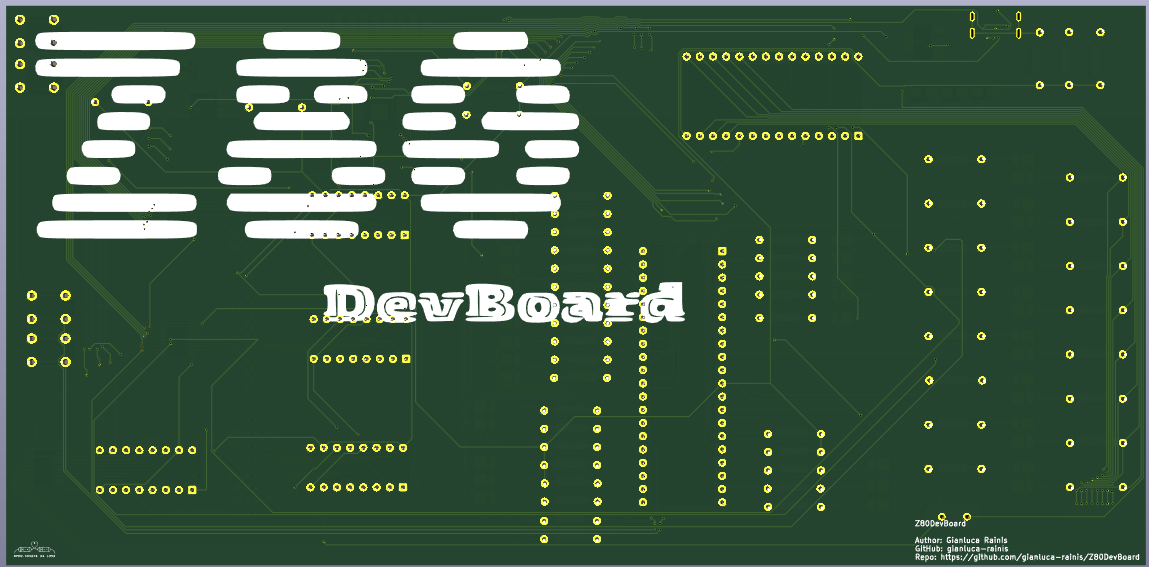
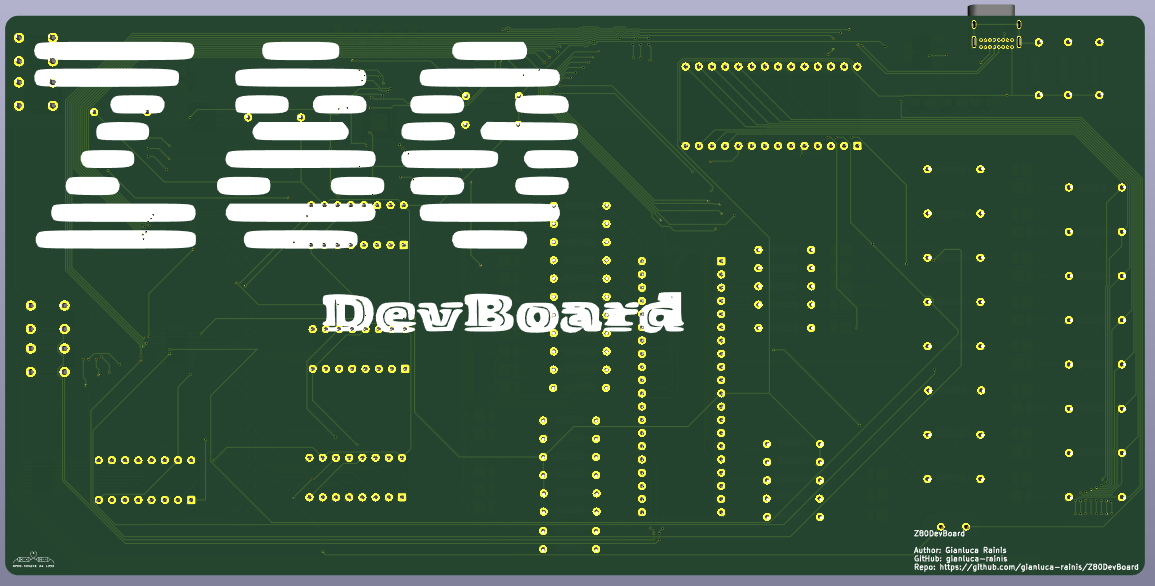
Updated the images. Updated README file.

diff --git a/README.md b/README.md
@@ -1,10 +1,7 @@
 # Z80DevBoard
-An advanced development board for the Z80 (Specific model: Z8400).
+An advanced development board for the Z80 microprocessor (Specific model: Z8400), powered by an RP2040.
 
-It's powered by an RP2040.
-It have a flash memory where you can write the RP2040 firmware and the Z80 program.
-The RP2040 load in the RAM the Z80 program and the Z80 run it.
-The leds allow you to see the real time actions of the Z80.
+This development board combines the classic Z8400 (Z80) microprocessor with a modern RP2040 microcontroller. The RP2040 manages flash memory storage and loads programs into RAM for the Z80 to execute. Real-time LED indicators provide visual feedback of the Z80's operations, making it an excellent educational and development tool.
 
 <img src="./images/Z80DevBoard.png" alt="Z80DevBoard Logo" style="background-color: white;">
 
@@ -13,52 +10,93 @@ The leds allow you to see the real time actions of the Z80.
 <img src="./images/screenshot_3d_front.png" alt="Front view of the dev board">
 
 ## Author
-Gianluca Rainis (gianluca-rainis on GitHub)
+**Gianluca Rainis** - [gianluca-rainis](https://github.com/gianluca-rainis)
 
 ## License
-The whole project is under the MIT License.
+This project is licensed under the MIT License - see the [LICENSE](LICENSE) file for details.
 
-## Developing tools
-- KiCad
+## AI Disclaimer
+No AI was used in this project. Everything was designed by the author.
+
+## Development Tools
+- **PCB Design:** KiCad
+
+## PCB Manufacturing
+The Gerber files for PCB manufacturing are available in the [`gerber/`](gerber/) directory.
 
 ## Components
+### Microprocessors
 - Z8400
 - RP2040
-- USB C 2.0 port
+
+### Memory
 - HM62256BLP (RAM)
 - W25Q32JVSS (Flash)
-- Crystal oscillator
+
+### Power Management
 - AMS1117-3.3 (5V to 3v3)
+
+### Data Bus
+- USB C 2.0 port
 - 3 74HC595 (Serial to 8 bit)
 - 74HC165 (8 bit to Serial)
 - 3 SN74LVC245APW (Bus to handle the voltage differences)
-- 4 Buttons
-- 40 Leds
-- 24 Diods
+
+### Support components
+- Crystal oscillator
+
+### Resistors
 - Resistor 0 ohm
 - 40 Resistors 220 ohm
 - 2 Resistors 5k ohm
 - 9 Resistors 10k ohm
+
+### Capacitors
 - 5 Capacitors 0.1uF
 - Capacitor 1uF
 - 2 Capacitors 10uF
+
+### Other
+- 4 Buttons
+- 40 LEDs
+- 24 Diodes
 - Fuse 500mA
 
+## Project Structure
+```
+Z80DevBoard/
+├── gerber/                 # PCB manufacturing files (Gerber format)
+├── images/                 # Documentation images and KiCad symbols
+├── .gitattributes          # Gitattributes file
+├── .gitignore              # Gitignore file
+├── Z80DevBoard.kicad_pcb   # PCB layout file
+├── Z80DevBoard.kicad_pro   # KiCad project file
+├── Z80DevBoard.kicad_sch   # Schematic file
+├── LICENSE                 # MIT License
+└── README.md               # This file
+```
+
 ## Images
-### Scheme (A2 format)
-<img src="./images/screenshot_circuits.png" alt="Scheme image">
+### Schematic Diagrams
+#### Complete Schematic (A2 format)
+<img src="./images/screenshot_circuits.png" alt="Complete schematic">
 
-### Z80 scheme
-<img src="./images/screenshot_circuits_z80.png" alt="Z80 scheme image">
+#### Z80 Section
+<img src="./images/screenshot_circuits_z80.png" alt="Z80 subsystem schematic">
 
-### RP2040 scheme
-<img src="./images/screenshot_circuits_rp2040.png" alt="RP2040 scheme image">
+#### RP2040 Section
+<img src="./images/screenshot_circuits_rp2040.png" alt="RP2040 subsystem schematic">
 
-### Pcb view
-<img src="./images/screenshot_pcb.png" alt="Image of the pcb">
+### PCB Layout
+#### Without Silkscreen
+<img src="./images/screenshot_pcb_no_drawings.png" alt="PCB layout without silkscreen">
 
-### 3D Front view
-<img src="./images/screenshot_3d_front.png" alt="Front view of the dev board">
+#### With Silkscreen
+<img src="./images/screenshot_pcb.png" alt="PCB layout with silkscreen">
 
-### 3D Back view
-<img src="./images/screenshot_3d_back.png" alt="Back view of the dev board">
+### 3D Renders
+#### Front View
+<img src="./images/screenshot_3d_front.png" alt="3D render - front view">
+
+#### Back View
+<img src="./images/screenshot_3d_back.png" alt="3D render - back view">
